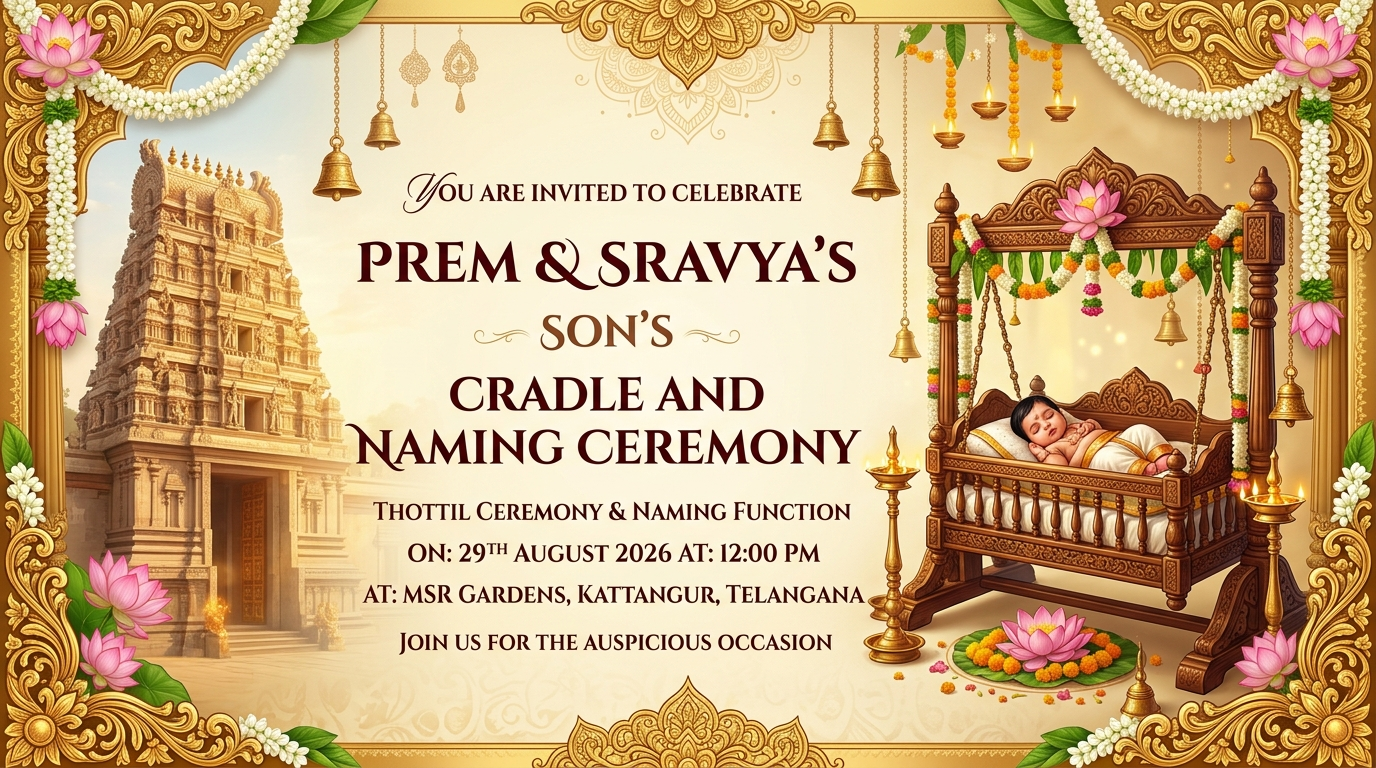
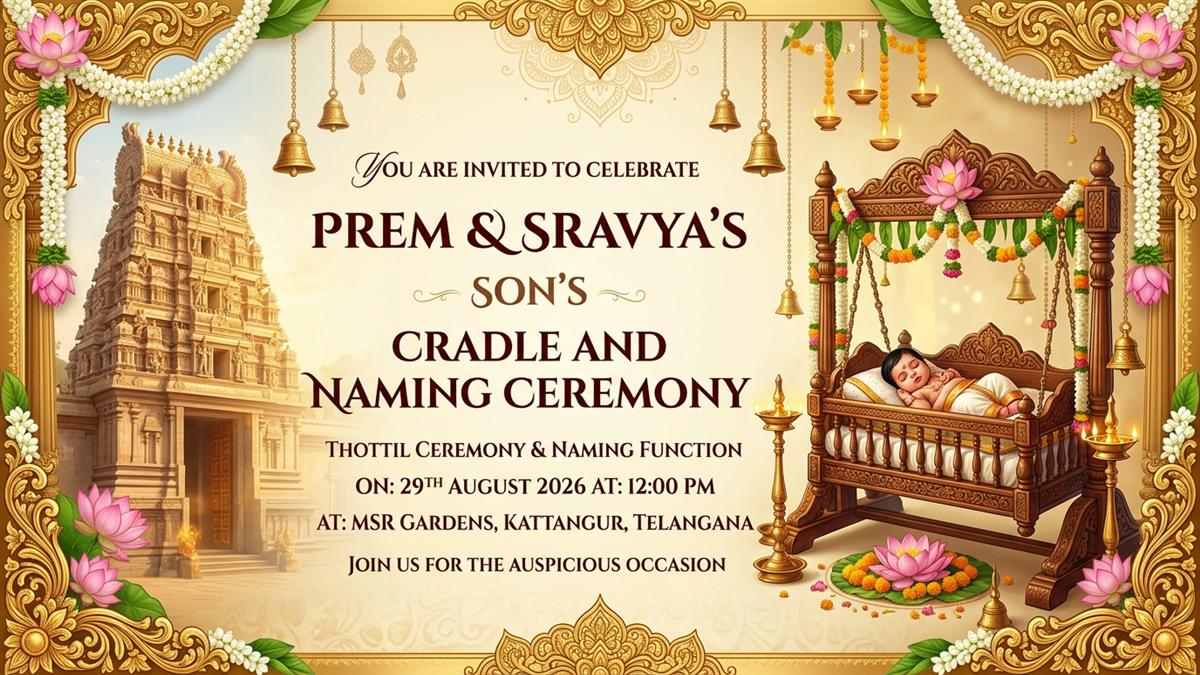
feat: Update event metadata and improve date formatting for Cradle & Naming Ceremony invitation

diff --git a/src/app/layout.tsx b/src/app/layout.tsx
@@ -34,18 +34,20 @@ export const metadata: Metadata = {
   title: "Prem & Sravya's Son's Cradle & Naming Ceremony | 29 August 2026",
   description:
     "With joy and blessings, we invite you to celebrate Prem & Sravya's son's Cradle & Naming Ceremony on 29 August 2026 at MSR Gardens, Kattangur.",
-  metadataBase: new URL("https://cradle-naming-ceremony.vercel.app"),
+  metadataBase: new URL("https://cradle-and-naming-ceremony.vercel.app"),
   openGraph: {
     title: "Prem & Sravya's Son's Cradle & Naming Ceremony | 29 August 2026",
     description:
       "With joy and blessings, we invite you to celebrate Prem & Sravya's son's Cradle & Naming Ceremony on 29 August 2026 at MSR Gardens, Kattangur.",
-    url: "https://cradle-naming-ceremony.vercel.app",
+    url: "https://cradle-and-naming-ceremony.vercel.app",
     siteName: "Cradle & Naming Ceremony Invitation",
     images: [
       {
-        url: "/images/og_image.jpg",
+        url: "https://cradle-and-naming-ceremony.vercel.app/images/og_image.jpg",
+        secureUrl: "https://cradle-and-naming-ceremony.vercel.app/images/og_image.jpg",
         width: 1200,
         height: 675,
+        type: "image/jpeg",
         alt: "Prem & Sravya's Son's Cradle & Naming Ceremony Invitation - 29 August 2026",
       },
     ],
@@ -57,7 +59,7 @@ export const metadata: Metadata = {
     title: "Prem & Sravya's Son's Cradle & Naming Ceremony | 29 August 2026",
     description:
       "With joy and blessings, we invite you to celebrate Prem & Sravya's son's Cradle & Naming Ceremony on 29 August 2026 at MSR Gardens, Kattangur.",
-    images: ["/images/og_image.jpg"],
+    images: ["https://cradle-and-naming-ceremony.vercel.app/images/og_image.jpg"],
   },
   keywords: [
     "Cradle Ceremony",

diff --git a/src/components/HeroSection.tsx b/src/components/HeroSection.tsx
@@ -39,7 +39,7 @@ export const HeroSection: React.FC = () => {
         {/* Baby Date of Birth */}
         <div className="mt-2 inline-flex items-center gap-2 px-3 py-1 rounded-md bg-white/80 border border-gold-200 text-xs sm:text-sm font-semibold tracking-widest text-indigoaccent-800 uppercase">
           <span className="w-1.5 h-1.5 rounded-full bg-gold-500" />
-          <span>09 August 2026</span>
+          <span>Sunday, 09 August 2026</span>
           <span className="w-1.5 h-1.5 rounded-full bg-gold-500" />
         </div>
       </div>

diff --git a/src/components/ClosingSection.tsx b/src/components/ClosingSection.tsx
@@ -50,7 +50,7 @@ export const ClosingSection: React.FC = () => {
 
         {/* Footer Credit / Subtle copyright */}
         <p className="text-[11px] font-sans text-sandalwood-400 mt-8 tracking-wider">
-          Cradle & Naming Ceremony • 29 August 2026 • MSR Gardens
+          Cradle & Naming Ceremony • Saturday, 29 August 2026 • MSR Gardens
         </p>
       </div>
     </section>

diff --git a/src/components/PrinceSection.tsx b/src/components/PrinceSection.tsx
@@ -38,7 +38,7 @@ export const PrinceSection: React.FC = () => {
         </p>
 
         <p className="text-xs sm:text-sm font-sans font-semibold text-sandalwood-500 tracking-widest uppercase">
-          Born on 09 August 2026
+          Born on Sunday, 09 August 2026
         </p>
 
         <OrnamentalDivider variant="peacock" className="my-4" />
